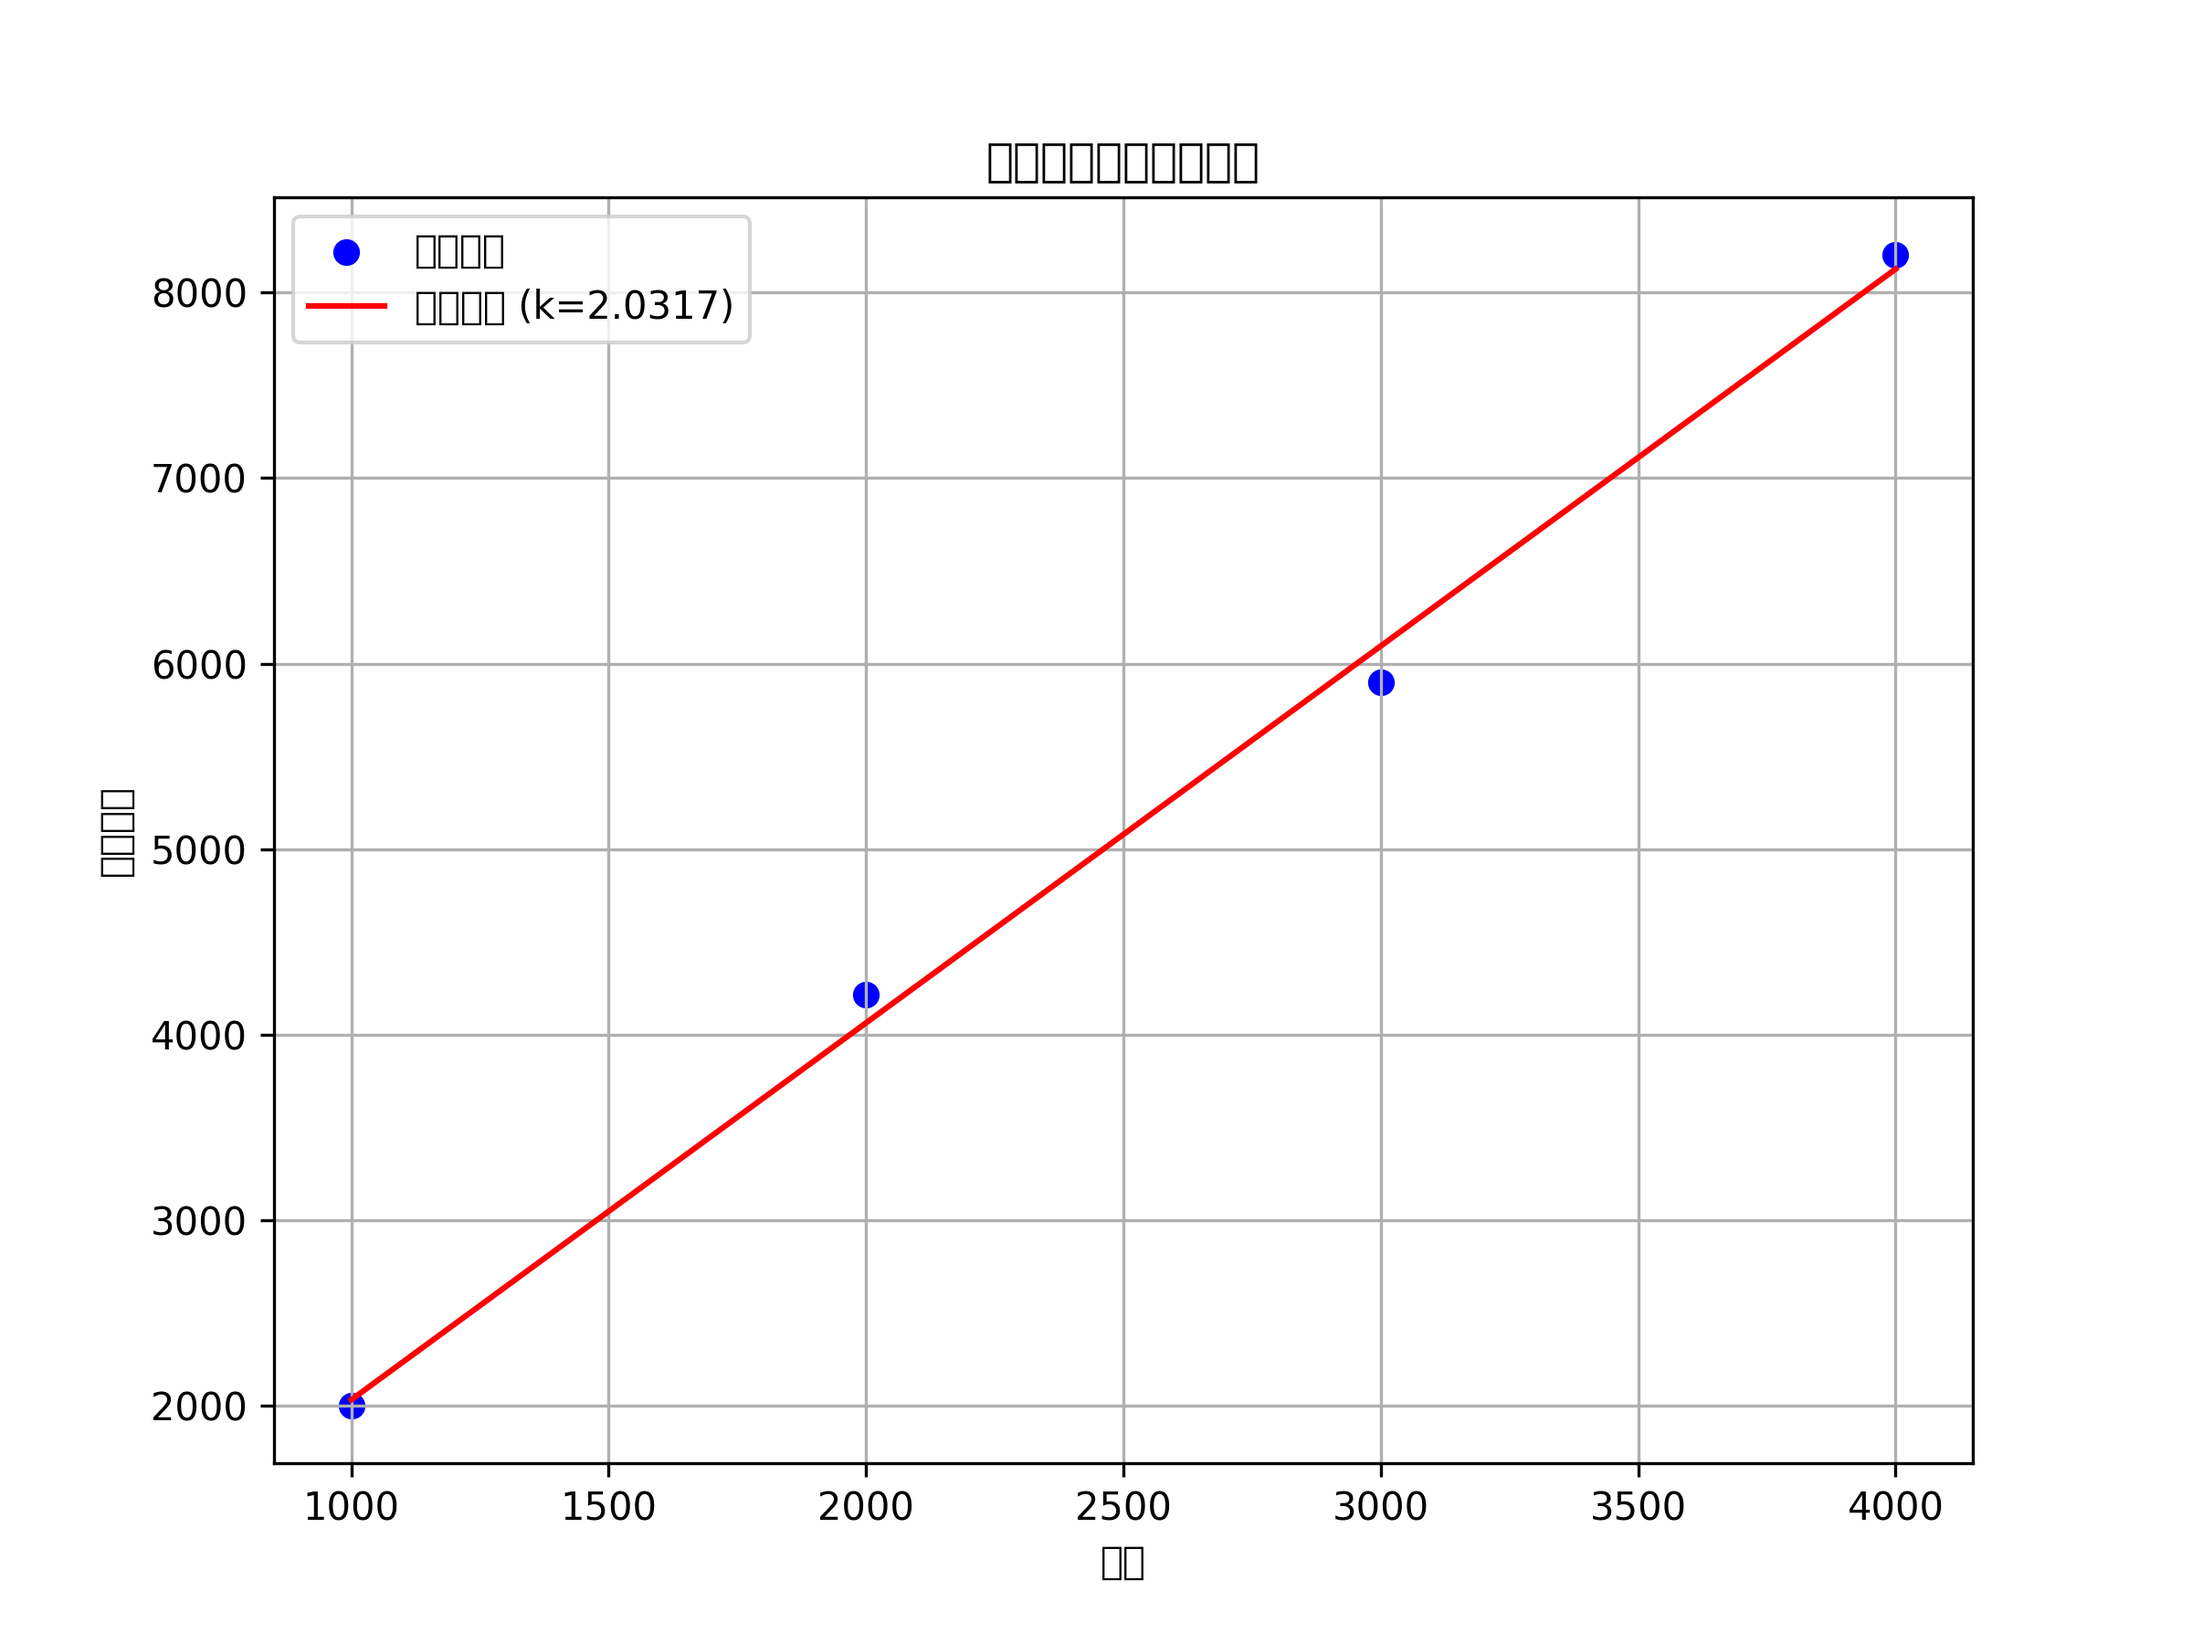
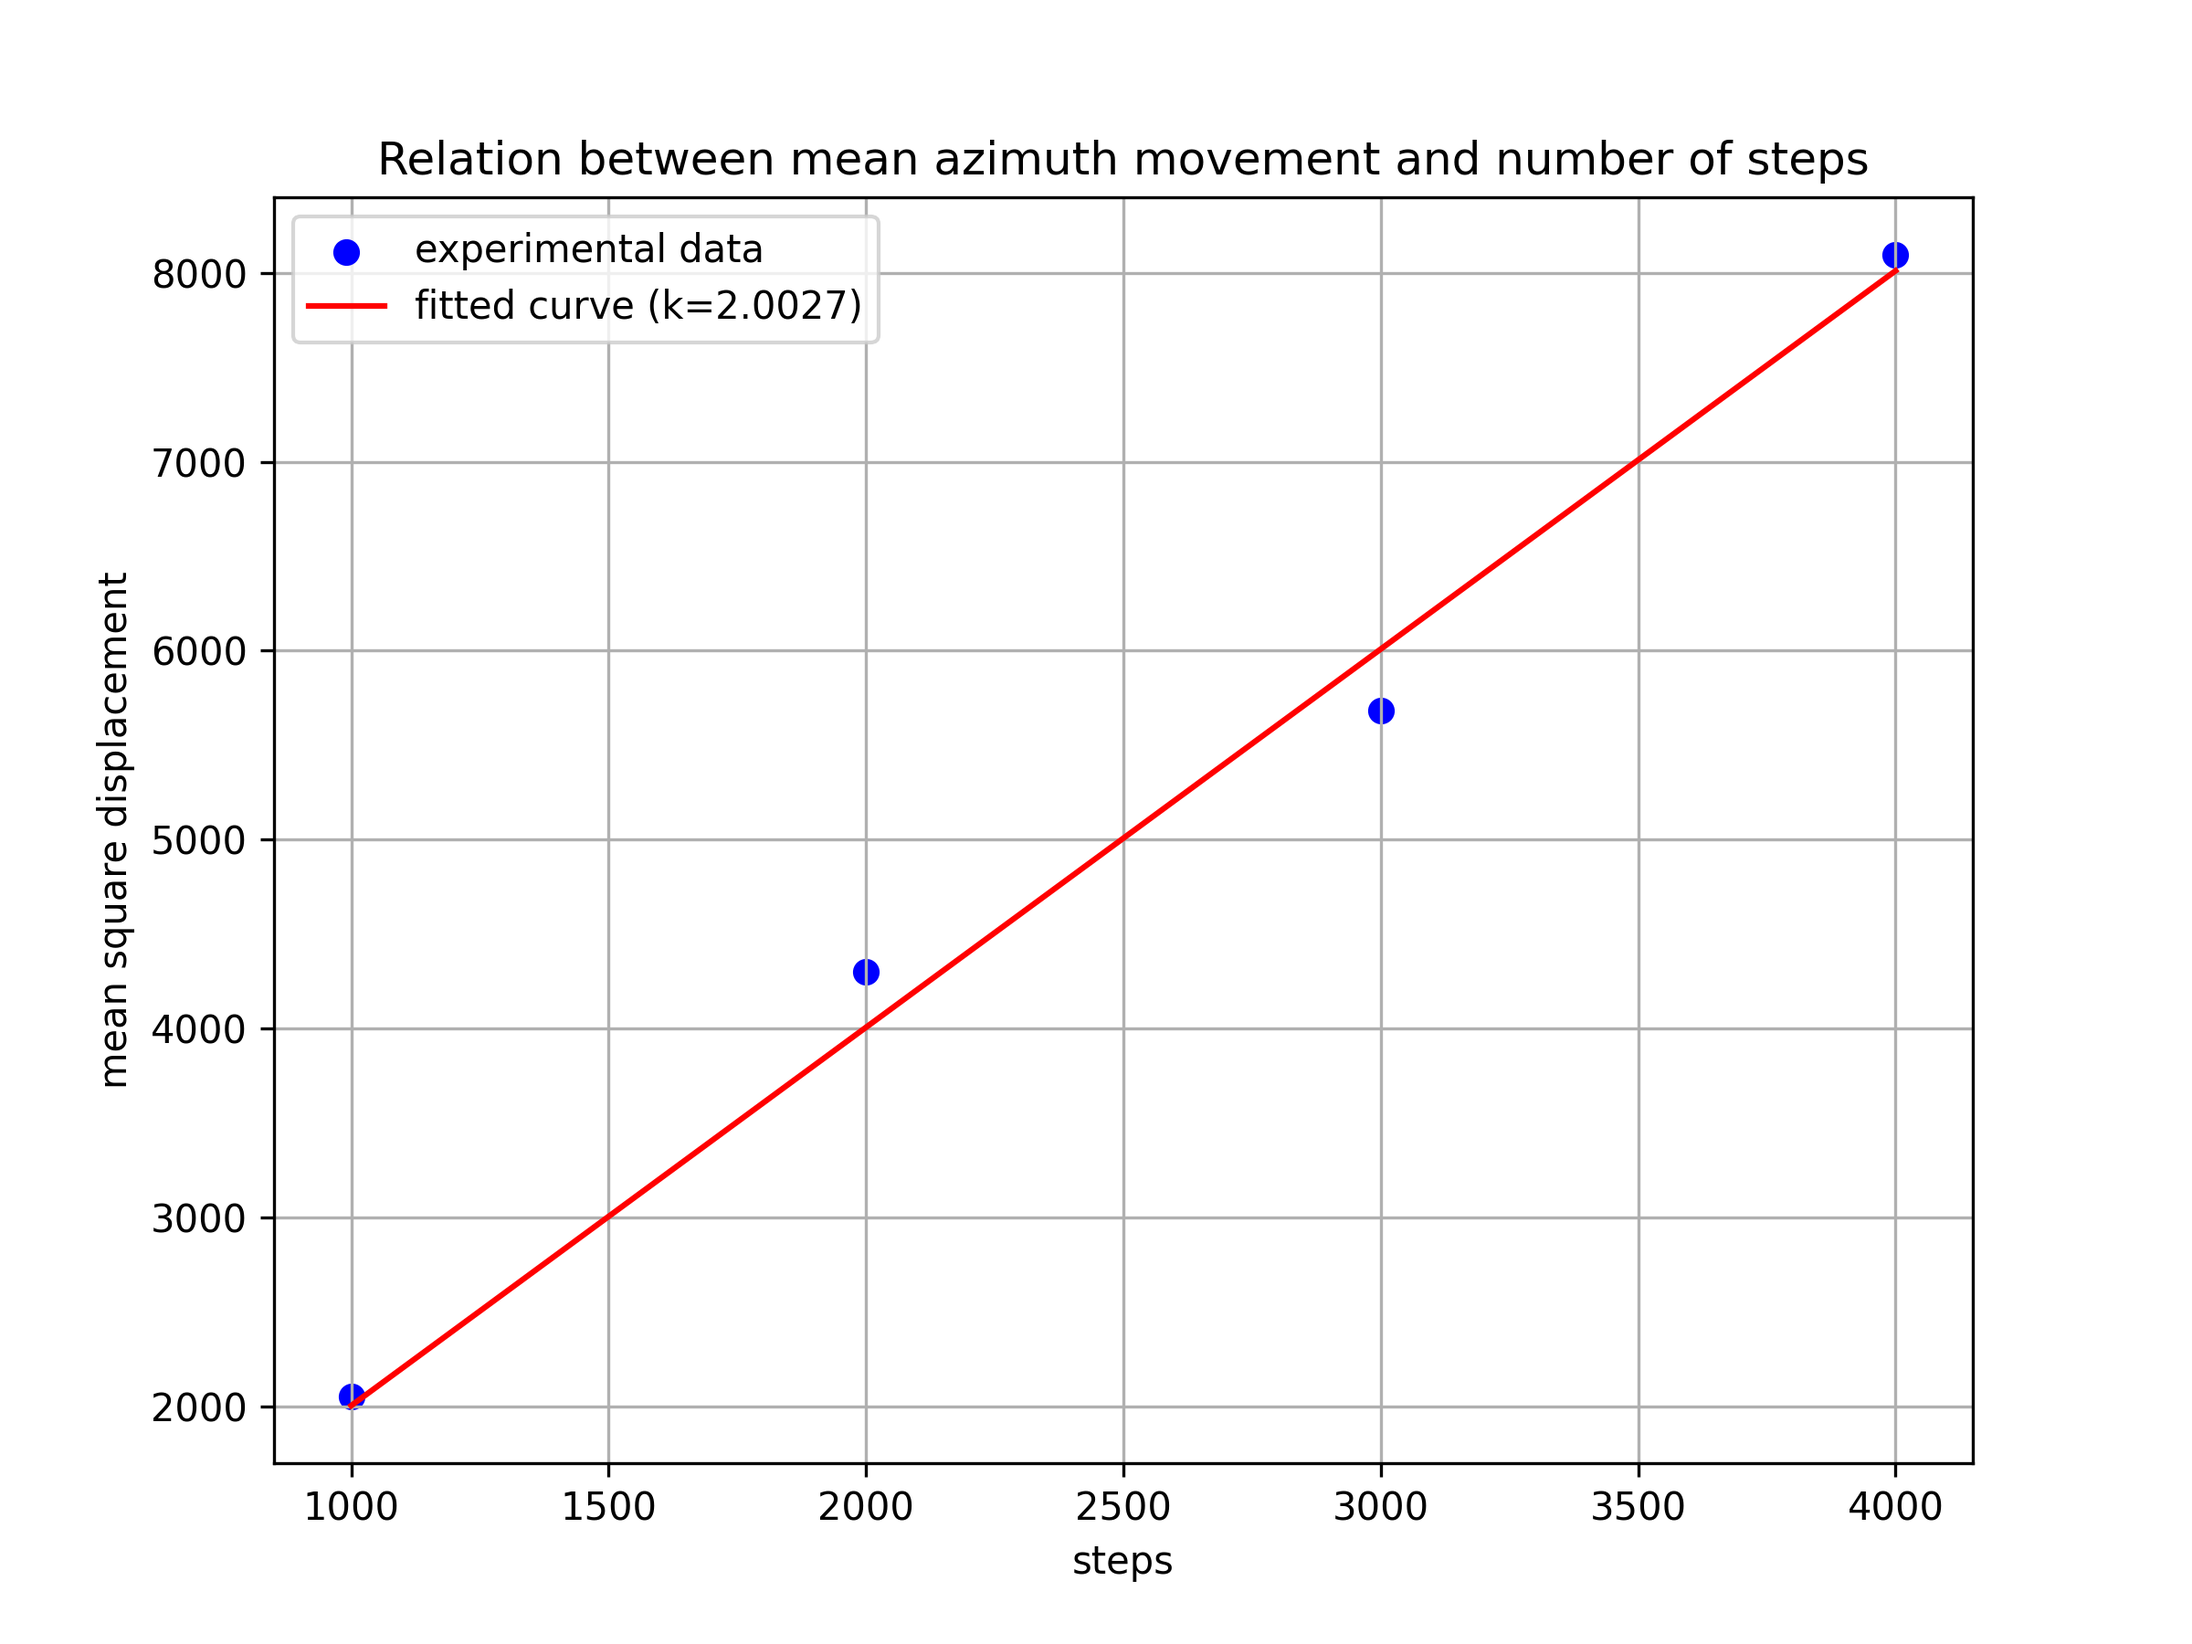
main

diff --git a/src/random_walk_trace.py b/src/random_walk_trace.py
@@ -33,14 +33,14 @@ def plot_single_walk(path):
     x_coords, y_coords = path
     
     plt.figure(figsize=(8, 8))
-    plt.plot(x_coords, y_coords, label='随机行走轨迹')
+    plt.plot(x_coords, y_coords, label='random walk trace')
     # 2. 使用 plt.scatter 标记起点和终点
-    plt.scatter([0], [0], color='green', label='起点', zorder=2)
-    plt.scatter([x_coords[-1]], [y_coords[-1]], color='red', label='终点', zorder=2)
+    plt.scatter([0], [0], color='green', label='origin', zorder=2)
+    plt.scatter([x_coords[-1]], [y_coords[-1]], color='red', label='destination', zorder=2)
     # 3. 设置坐标轴比例相等
-    plt.title('二维随机行走轨迹（1000步）')
-    plt.xlabel('x坐标')
-    plt.ylabel('y坐标')
+    plt.title('Two-dimensional random walk path (1000 steps)')
+    plt.xlabel('x')
+    plt.ylabel('y')
     plt.axis('equal')
     # 4. 添加图例
     plt.legend()
@@ -56,7 +56,7 @@ def plot_multiple_walks():
     # 1. 创建2x2的子图布局
     fig, axs = plt.subplots(2, 2, figsize=(12, 10))
     # 2. 对每个子图重复以下步骤：
-    fig.suptitle('四个不同的二维随机行走轨迹（1000步）')
+    fig.suptitle('Four different 2D random walk tracks (1000 steps)')
     for i in range(2):
         for j in range(2):
     # —— 生成随机行走轨迹
@@ -66,7 +66,7 @@ def plot_multiple_walks():
             axs[i, j].plot(x_coords, y_coords)
             axs[i, j].scatter([0], [0], color='green', zorder=2)
             axs[i, j].scatter([x_coords[-1]], [y_coords[-1]], color='red', zorder=2)
-            axs[i, j].set_title(f'轨迹 {i*2+j+1}')
+            axs[i, j].set_title(f'trace {i*2+j+1}')
             axs[i, j].axis('equal')
             axs[i, j].grid(True)
         
@@ -82,4 +82,4 @@ if __name__ == "__main__":
     single_path = random_walk_2d(1000)
     plot_single_walk(single_path)
     # 2. 生成并绘制多个轨迹
-    pass
+    plot_multiple_walks()

diff --git a/src/random_walk_displacement.py b/src/random_walk_displacement.py
@@ -41,12 +41,12 @@ def plot_displacement_distribution(final_displacements, bins=30):
     y_displacements = final_displacements[1]
     # 2. 使用plt.hist绘制直方图
     plt.figure(figsize=(8, 6))
-    plt.hist(x_displacements, bins=bins, alpha=0.5, label='x方向位移')
-    plt.hist(y_displacements, bins=bins, alpha=0.5, label='y方向位移')
+    plt.hist(x_displacements, bins=bins, alpha=0.5, label='Displacement in x direction')
+    plt.hist(y_displacements, bins=bins, alpha=0.5, label='Displacement in y direction')
     # 3. 添加标题和标签
-    plt.title('位移分布直方图')
-    plt.xlabel('位移')
-    plt.ylabel('频数')
+    plt.title('Displacement distribution histogram')
+    plt.xlabel('displacement')
+    plt.ylabel('frequency')
     plt.legend()
     
     plt.savefig('results/displacement_distribution.png', dpi=300)
@@ -69,9 +69,9 @@ def plot_displacement_square_distribution(final_displacements, bins=30):
     plt.figure(figsize=(8, 6))
     plt.hist(displacement_squares, bins=bins, alpha=0.7)
     # 3. 添加标题和标签
-    plt.title('位移平方分布直方图')
-    plt.xlabel('位移平方')
-    plt.ylabel('频数')
+    plt.title('Displacement square distribution histogram')
+    plt.xlabel('Displacement squared')
+    plt.ylabel('frequency')
     
     plt.savefig('results/displacement_square_distribution.png', dpi=300)
     plt.show()
@@ -89,3 +89,4 @@ if __name__ == "__main__":
     # 2. 绘制位移分布直方图
     plot_displacement_distribution(displacements, bins)
     # 3. 绘制位移平方分布直方图
+    plot_displacement_square_distribution(displacements, bins)

diff --git a/src/endpoints_analysis.py b/src/endpoints_analysis.py
@@ -65,9 +65,9 @@ def plot_endpoints_distribution(endpoints):
     plt.figure(figsize=(10, 10))
     # 3. 设置坐标轴比例、标题和标签
     plt.scatter(x_coords, y_coords, s=10, alpha=0.5)
-    plt.title('随机游走终点分布')
-    plt.xlabel('x坐标')
-    plt.ylabel('y坐标')
+    plt.title('Random walk endpoint distribution')
+    plt.xlabel('x')
+    plt.ylabel('y')
     plt.axis('equal')
     
     plt.savefig('results/endpoints_distribution.png', dpi=300)
@@ -105,17 +105,17 @@ def analyze_x_distribution(endpoints):
     variance = np.var(x_coords, ddof=1)
     # 3. 绘制直方图
     plt.figure(figsize=(10, 6))
-    plt.hist(x_coords, bins=30, density=True, alpha=0.6, color='b', label='样本分布')
+    plt.hist(x_coords, bins=30, density=True, alpha=0.6, color='b', label='sample distribution')
 
     # 4. 添加理论正态分布曲线
     x = np.linspace(min(x_coords), max(x_coords), 100)
     sigma = np.sqrt(variance)
     normal_dist = 1/(sigma * np.sqrt(2*np.pi)) * np.exp(-(x - mean)**2 / (2*sigma**2))
-    plt.plot(x, normal_dist, 'r-', label='理论正态分布')
+    plt.plot(x, normal_dist, 'r-', label='The theoretical normal distribution')
     # 5. 设置图形属性并打印统计结果
-    plt.title('x坐标分布直方图与理论正态分布')
-    plt.xlabel('x坐标')
-    plt.ylabel('概率密度')
+    plt.title('X-coordinate distribution histogram and theoretical normal distribution')
+    plt.xlabel('x')
+    plt.ylabel('probability density')
     plt.legend()
 
     plt.savefig('results/X-coordinate distribution histogram and theoretical normal distribution.png', dpi=300)

diff --git a/src/poisson_simulation.py b/src/poisson_simulation.py
@@ -19,8 +19,8 @@ def plot_poisson_pmf(lambda_param=8, max_l=20):
     plt.figure(figsize=(8, 6))
     plt.stem(l_values, pmf, linefmt='b-', markerfmt='bo', basefmt='g--')
     plt.title(f'Poisson Probability Mass Function (λ={lambda_param})')
-    plt.xlabel('l值')
-    plt.ylabel('概率')
+    plt.xlabel('l')
+    plt.ylabel('frequency')
     plt.grid(True)
     
     plt.plot(l_values, pmf, 'b-')
@@ -71,8 +71,8 @@ def compare_simulation_theory(n_experiments=10000, lambda_param=8):
     theoretical_counts = pmf * n_experiments
     # 3. 绘制直方图和理论曲线
     plt.figure(figsize=(10, 6))
-    plt.hist(heads_count, bins=np.arange(-0.5, max_l + 0.5), alpha=0.7, label='实验结果', density=False)
-    plt.plot(l_values, theoretical_counts, 'ro-', label='理论分布')
+    plt.hist(heads_count, bins=np.arange(-0.5, max_l + 0.5), alpha=0.7, label='experimental result', density=False)
+    plt.plot(l_values, theoretical_counts, 'ro-', label='theoretical distribution')
     plt.title(f'Comparison of experiment and theory (λ={lambda_param})')
     plt.xlabel('Number of heads')
     plt.ylabel('frequency')

diff --git a/src/mean_square_displacement.py b/src/mean_square_displacement.py
@@ -92,8 +92,22 @@ if __name__ == "__main__":
     steps, msd, k = analyze_step_dependence()
     # 2. 绘制实验数据点和理论曲线
     plt.figure(figsize=(8, 6))
-    plt.scatter(steps, msd, color='blue', label='实验数据')
-    plt.plot(steps, k * steps, color='red', label=f'拟合曲线 (k={k:.4f})')
+    plt.scatter(steps, msd, color='blue', label='experimental data')
+    plt.plot(steps, k * steps, color='red', label=f'fitted curve (k={k:.4f})')
     # 3. 设置图形属性
+    plt.title('Relation between mean azimuth movement and number of steps')
+    plt.xlabel('steps')
+    plt.ylabel('mean square displacement')
+    plt.legend()
+    plt.grid(True)
+    
+    plt.savefig('results/msd_vs_steps.png', dpi=300)
+    
     # 4. 打印数据分析结果
-    pass
+    print("数据分析结果:")
+    print(f"  拟合系数 k: {k:.4f}")
+    
+    # 显示图形
+    plt.show()
+    # 4. 打印数据分析结果
+    
